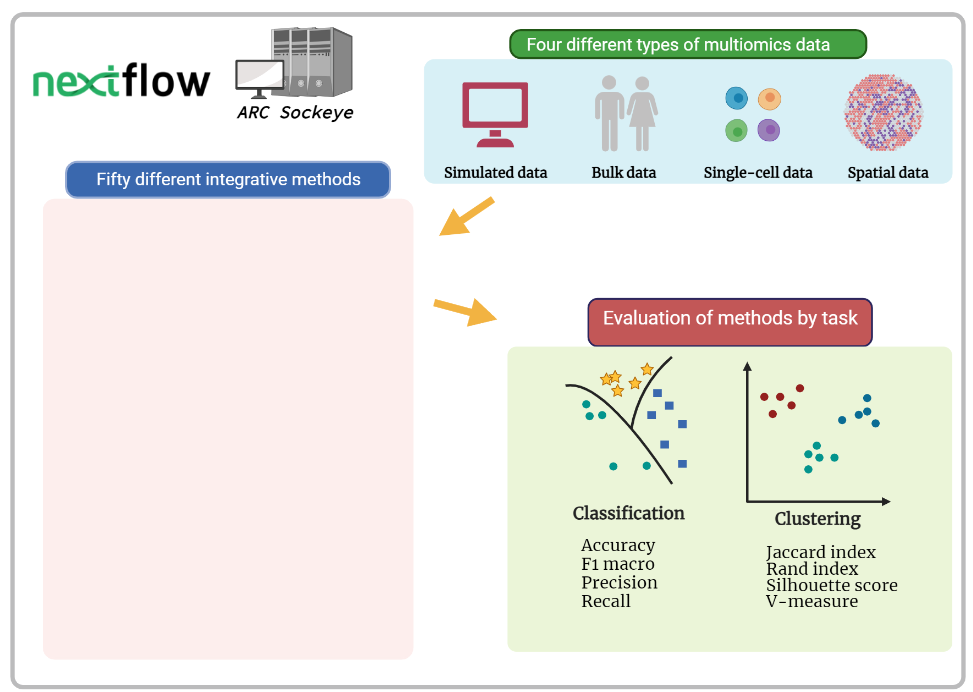
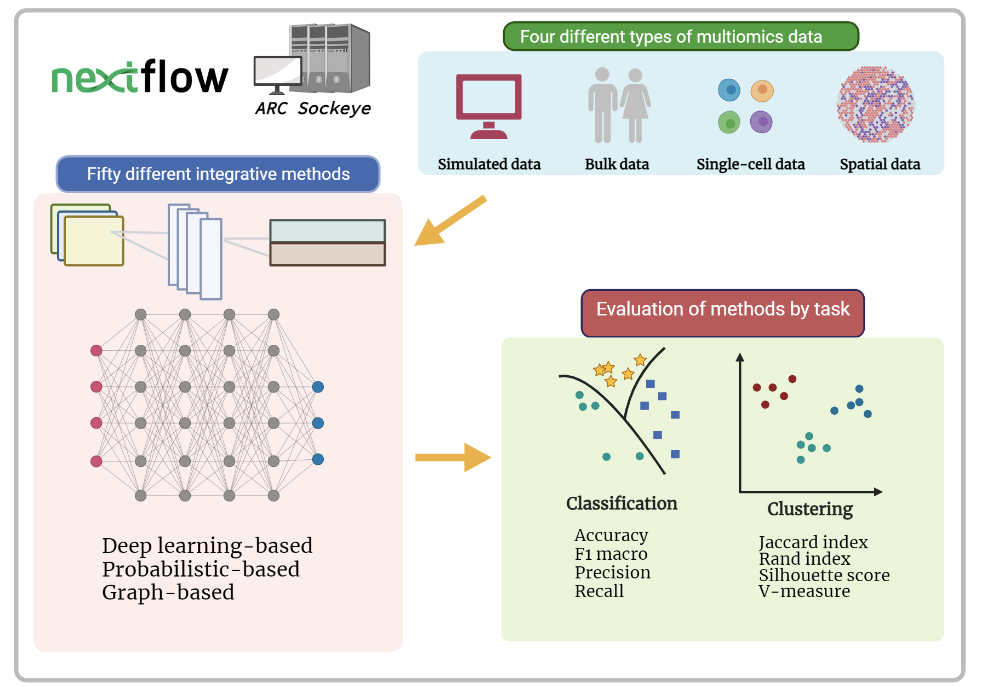
update workflow pic

diff --git a/index.html b/index.html
@@ -263,6 +263,11 @@ interpretability of the results.
 
 ]
 
+???
+
+* Dont take too long in explain this
+* Try making a 'consecutive' story
+
 ---
 
 ## Nextflow
@@ -355,8 +360,8 @@ Rest could be explained in methods
 
 &lt;!--- Replace with other xlsx here from Amrit ---&gt;
 
-<div class="datatables html-widget html-fill-item-overflow-hidden html-fill-item" id="htmlwidget-a561b39c2100c706b5b7" style="width:100%;height:auto;"></div>
-<script type="application/json" data-for="htmlwidget-a561b39c2100c706b5b7">{"x":{"filter":"none","vertical":false,"fillContainer":false,"data":[["1","2","3","4","5","6","7","8","9","10"],["Multiomics modeling of the immunome, transcriptome, microbiome, proteome and metabolome adaptations during human pregnancy","","","","","","","Cytokine-induced molecular responses in airway smooth muscle cells inform genome-wide assocation studies of asthma","",""],["longitudinal","","","","","","","case-control","",""],["plasma","plasma","serum","swab","blood","plasma","plasma","primary airway smooth muscle cells","primary airway smooth muscle cells","primary airway smooth muscle cells"],["cfRNA","proteins","proteins","microbiota","cells","metabolites","proteins","genotypes","mRNA","methylation"],["RNAseq","Luminex","Luminex","DNAseq","CyTOF","mass spec","Somalogic","Illumina Omni2.5v8v1A/Human Core Array","Illumina Human HT-12 v4 array","Illumina Human Methylation EPIC Beadchip"],[37275,62,62,18548,354,3485,1300,null,18279,786326],[68,null,null,null,null,null,null,268,null,null],["4 timepoints","","","","","","","asthma/non-asthma","",""],["multinomial","","","","","","","binary","",""],["","","","","","","","age, smoking status, race, sex, treatment","",""],["Bioinformatics 2019 35(1):95-103.","","","","","","","Genome Med. 2020 12(1):64.","",""],["https://nalab.stanford.edu/multiomics-pregnancy/","","","","","","","to ask authors","GSE146374","GSE146376"]],"container":"<table class=\"display\">\n  <thead>\n    <tr>\n      <th> <\/th>\n      <th>Title<\/th>\n      <th>study design<\/th>\n      <th>sample-type<\/th>\n      <th>omic-type<\/th>\n      <th>technology<\/th>\n      <th>number of variables<\/th>\n      <th>number of observations<\/th>\n      <th>response<\/th>\n      <th>response-type<\/th>\n      <th>covariates<\/th>\n      <th>reference<\/th>\n      <th>data link/GEO<\/th>\n    <\/tr>\n  <\/thead>\n<\/table>","options":{"pageLength":3,"scrollX":true,"searching":false,"columnDefs":[{"className":"dt-right","targets":[6,7]},{"orderable":false,"targets":0}],"order":[],"autoWidth":false,"orderClasses":false,"lengthMenu":[3,10,25,50,100],"rowCallback":"function(row, data, displayNum, displayIndex, dataIndex) {\nvar value=data[1]; $(this.api().cell(row, 1).node()).css({'font-size':'68%'});\nvar value=data[2]; $(this.api().cell(row, 2).node()).css({'font-size':'68%'});\nvar value=data[3]; $(this.api().cell(row, 3).node()).css({'font-size':'68%'});\nvar value=data[4]; $(this.api().cell(row, 4).node()).css({'font-size':'68%'});\nvar value=data[5]; $(this.api().cell(row, 5).node()).css({'font-size':'68%'});\nvar value=data[6]; $(this.api().cell(row, 6).node()).css({'font-size':'68%'});\nvar value=data[7]; $(this.api().cell(row, 7).node()).css({'font-size':'68%'});\nvar value=data[8]; $(this.api().cell(row, 8).node()).css({'font-size':'68%'});\nvar value=data[9]; $(this.api().cell(row, 9).node()).css({'font-size':'68%'});\nvar value=data[10]; $(this.api().cell(row, 10).node()).css({'font-size':'68%'});\nvar value=data[11]; $(this.api().cell(row, 11).node()).css({'font-size':'68%'});\nvar value=data[12]; $(this.api().cell(row, 12).node()).css({'font-size':'68%'});\n}"}},"evals":["options.rowCallback"],"jsHooks":[]}</script>
+<div class="datatables html-widget html-fill-item-overflow-hidden html-fill-item" id="htmlwidget-bc5570abefbea1e26f88" style="width:100%;height:auto;"></div>
+<script type="application/json" data-for="htmlwidget-bc5570abefbea1e26f88">{"x":{"filter":"none","vertical":false,"fillContainer":false,"data":[["1","2","3","4","5","6","7","8","9","10"],["Multiomics modeling of the immunome, transcriptome, microbiome, proteome and metabolome adaptations during human pregnancy","","","","","","","Cytokine-induced molecular responses in airway smooth muscle cells inform genome-wide assocation studies of asthma","",""],["longitudinal","","","","","","","case-control","",""],["plasma","plasma","serum","swab","blood","plasma","plasma","primary airway smooth muscle cells","primary airway smooth muscle cells","primary airway smooth muscle cells"],["cfRNA","proteins","proteins","microbiota","cells","metabolites","proteins","genotypes","mRNA","methylation"],["RNAseq","Luminex","Luminex","DNAseq","CyTOF","mass spec","Somalogic","Illumina Omni2.5v8v1A/Human Core Array","Illumina Human HT-12 v4 array","Illumina Human Methylation EPIC Beadchip"],[37275,62,62,18548,354,3485,1300,null,18279,786326],[68,null,null,null,null,null,null,268,null,null],["4 timepoints","","","","","","","asthma/non-asthma","",""],["multinomial","","","","","","","binary","",""],["","","","","","","","age, smoking status, race, sex, treatment","",""],["Bioinformatics 2019 35(1):95-103.","","","","","","","Genome Med. 2020 12(1):64.","",""],["https://nalab.stanford.edu/multiomics-pregnancy/","","","","","","","to ask authors","GSE146374","GSE146376"]],"container":"<table class=\"display\">\n  <thead>\n    <tr>\n      <th> <\/th>\n      <th>Title<\/th>\n      <th>study design<\/th>\n      <th>sample-type<\/th>\n      <th>omic-type<\/th>\n      <th>technology<\/th>\n      <th>number of variables<\/th>\n      <th>number of observations<\/th>\n      <th>response<\/th>\n      <th>response-type<\/th>\n      <th>covariates<\/th>\n      <th>reference<\/th>\n      <th>data link/GEO<\/th>\n    <\/tr>\n  <\/thead>\n<\/table>","options":{"pageLength":3,"scrollX":true,"searching":false,"columnDefs":[{"className":"dt-right","targets":[6,7]},{"orderable":false,"targets":0}],"order":[],"autoWidth":false,"orderClasses":false,"lengthMenu":[3,10,25,50,100],"rowCallback":"function(row, data, displayNum, displayIndex, dataIndex) {\nvar value=data[1]; $(this.api().cell(row, 1).node()).css({'font-size':'68%'});\nvar value=data[2]; $(this.api().cell(row, 2).node()).css({'font-size':'68%'});\nvar value=data[3]; $(this.api().cell(row, 3).node()).css({'font-size':'68%'});\nvar value=data[4]; $(this.api().cell(row, 4).node()).css({'font-size':'68%'});\nvar value=data[5]; $(this.api().cell(row, 5).node()).css({'font-size':'68%'});\nvar value=data[6]; $(this.api().cell(row, 6).node()).css({'font-size':'68%'});\nvar value=data[7]; $(this.api().cell(row, 7).node()).css({'font-size':'68%'});\nvar value=data[8]; $(this.api().cell(row, 8).node()).css({'font-size':'68%'});\nvar value=data[9]; $(this.api().cell(row, 9).node()).css({'font-size':'68%'});\nvar value=data[10]; $(this.api().cell(row, 10).node()).css({'font-size':'68%'});\nvar value=data[11]; $(this.api().cell(row, 11).node()).css({'font-size':'68%'});\nvar value=data[12]; $(this.api().cell(row, 12).node()).css({'font-size':'68%'});\n}"}},"evals":["options.rowCallback"],"jsHooks":[]}</script>
 
 
 .large[
